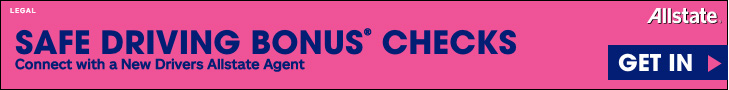
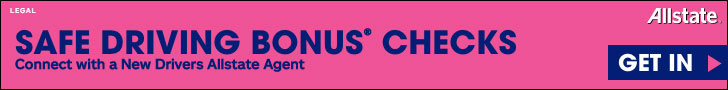
Massachusetts update due to feed change; backup graphic

diff --git a/728x90/js/master.js b/728x90/js/master.js
@@ -14,13 +14,13 @@ var devDynamicContent = {};
 devDynamicContent.aslocalfeed_Allstate_Local_Feed = [{}];
 devDynamicContent.aslocalfeed_Allstate_Local_Feed[0]._id = 0;
 
-devDynamicContent.aslocalfeed_Allstate_Local_Feed[0].Variation = "TA1"; //oc: hardcode to variation for dev
+devDynamicContent.aslocalfeed_Allstate_Local_Feed[0].Variation = "BSHLI"; //oc: hardcode to variation for dev
 devDynamicContent.aslocalfeed_Allstate_Local_Feed[0].Is_Default = true;
 devDynamicContent.aslocalfeed_Allstate_Local_Feed[0].Exit_URL = {};
 devDynamicContent.aslocalfeed_Allstate_Local_Feed[0].Exit_URL.Url = "https://www.onallstate.com/LP/2016/brand-campaign/localagents/";
 devDynamicContent.aslocalfeed_Allstate_Local_Feed[0].elemType = "LI ID";
 devDynamicContent.aslocalfeed_Allstate_Local_Feed[0].Savings_Percentage = "33%";
-devDynamicContent.aslocalfeed_Allstate_Local_Feed[0].Market_Name = "Greater Rochester Area";
+devDynamicContent.aslocalfeed_Allstate_Local_Feed[0].Market_Name = "Massachusetts";
 devDynamicContent.aslocalfeed_Allstate_Local_Feed[0].Legal_Copy = "Savings &amp; coverage subject to terms, conditions and availability. Savings Vary. Allstate Indemnity Co. &amp; Allstate Fire and Casualty Insurance Co. &amp; their Affiliates: Northbrook, IL. &copy;2015 Allstate Insurance Co.";
 devDynamicContent.aslocalfeed_Allstate_Local_Feed[0].Background_Color = "#FF9E16";
 devDynamicContent.aslocalfeed_Allstate_Local_Feed[0].Image1_160x600 = {};
@@ -313,11 +313,6 @@ asApp.parseDynamicContent = function() {
   var marketNameAOrAn = document.getElementsByClassName('market-name-a-An');
   var marketNameText = dynamicContent.aslocalfeed_Allstate_Local_Feed[0].Market_Name;
 
-  if ((marketNameText == "Massachusetts Area") && (dynamicContent.aslocalfeed_Allstate_Local_Feed[0].Variation = "BSHLI")) {
-    marketNameAOrAnText = "Massachusetts";
-  }
-  ;
-
 
   var firstCharMarketName = marketNameText.charAt(0);
 
@@ -364,11 +359,6 @@ asApp.parseDynamicContent = function() {
     }
     ;
 
-    //cw: for Massachusetts and BSHLI
-    if ((marketNameText == "Massachusetts Area") && (dynamicContent.aslocalfeed_Allstate_Local_Feed[0].Variation = "BSHLI")) {
-      marketNameAOrAnText = "a Massachusetts";
-    }
-    ;
 
     //cw: for New York Area and CFD
     if ((marketNameText == "New York Area") && (dynamicContent.aslocalfeed_Allstate_Local_Feed[0].Variation = "CFD")) {
@@ -642,7 +632,7 @@ asApp.addHereINFrameToTimeline = function() {
   $("#hereIN").addClass(dynamicContent.aslocalfeed_Allstate_Local_Feed[0].Variation);
 
   //cw:
-  if ((dynamicContent.aslocalfeed_Allstate_Local_Feed[0].Market_Name == "Massachusetts Area") && (dynamicContent.aslocalfeed_Allstate_Local_Feed[0].Variation == "BSHLI")) {
+  if ((dynamicContent.aslocalfeed_Allstate_Local_Feed[0].Market_Name == "Massachusetts") && (dynamicContent.aslocalfeed_Allstate_Local_Feed[0].Variation == "BSHLI")) {
     $('#hereIN.BSHLI').html('here in <br><span class="market-name">Massachusetts</span>');
   }
   ;

diff --git a/300x600/js/master.js b/300x600/js/master.js
@@ -14,7 +14,7 @@ var devDynamicContent = {};
 devDynamicContent.aslocalfeed_Allstate_Local_Feed = [{}];
 devDynamicContent.aslocalfeed_Allstate_Local_Feed[0]._id = 0;
 
-devDynamicContent.aslocalfeed_Allstate_Local_Feed[0].Variation = "DW1"; //oc: hardcode to variation for dev
+devDynamicContent.aslocalfeed_Allstate_Local_Feed[0].Variation = "BSHLI"; //oc: hardcode to variation for dev
 devDynamicContent.aslocalfeed_Allstate_Local_Feed[0].Is_Default = true;
 devDynamicContent.aslocalfeed_Allstate_Local_Feed[0].Exit_URL = {};
 devDynamicContent.aslocalfeed_Allstate_Local_Feed[0].Exit_URL.Url = "https://www.onallstate.com/LP/2016/brand-campaign/localagents/";
@@ -902,7 +902,7 @@ asApp.addLandingToTimeline = function($variation) {
     tl.to("#onlyAllstate", 0.5, {
       left: 0
     });
-    
+
     console.log("version1")
   }
   if (asApp.variation == 'DW2P') {
